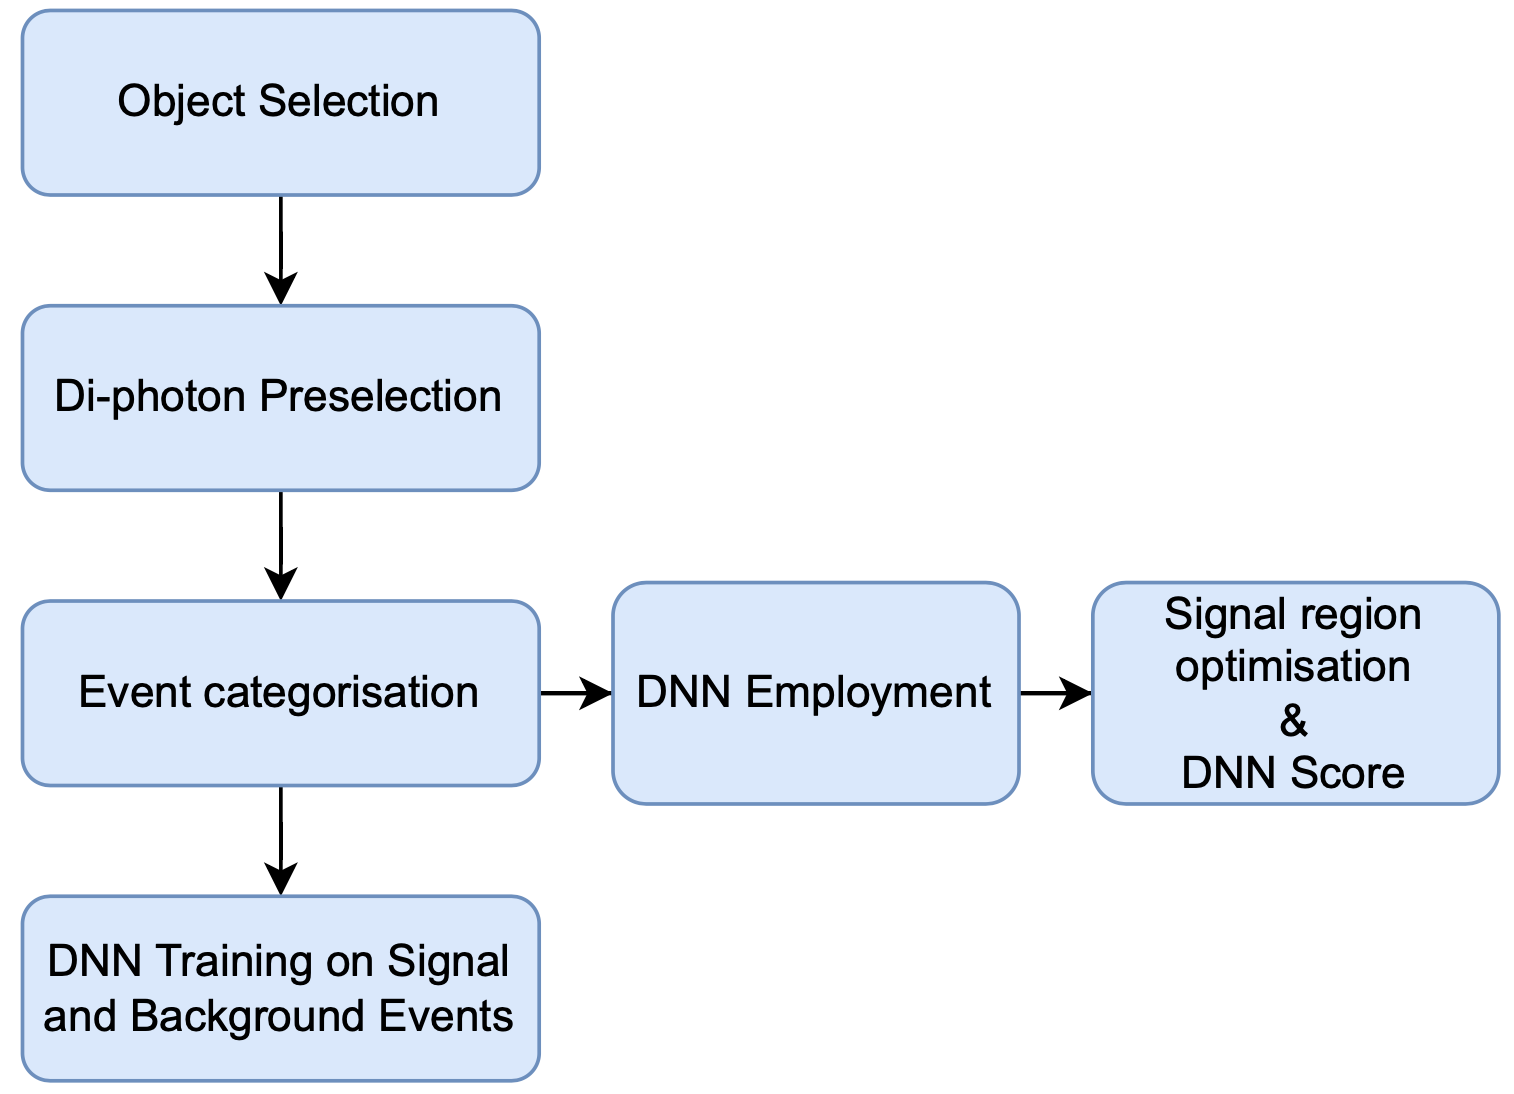
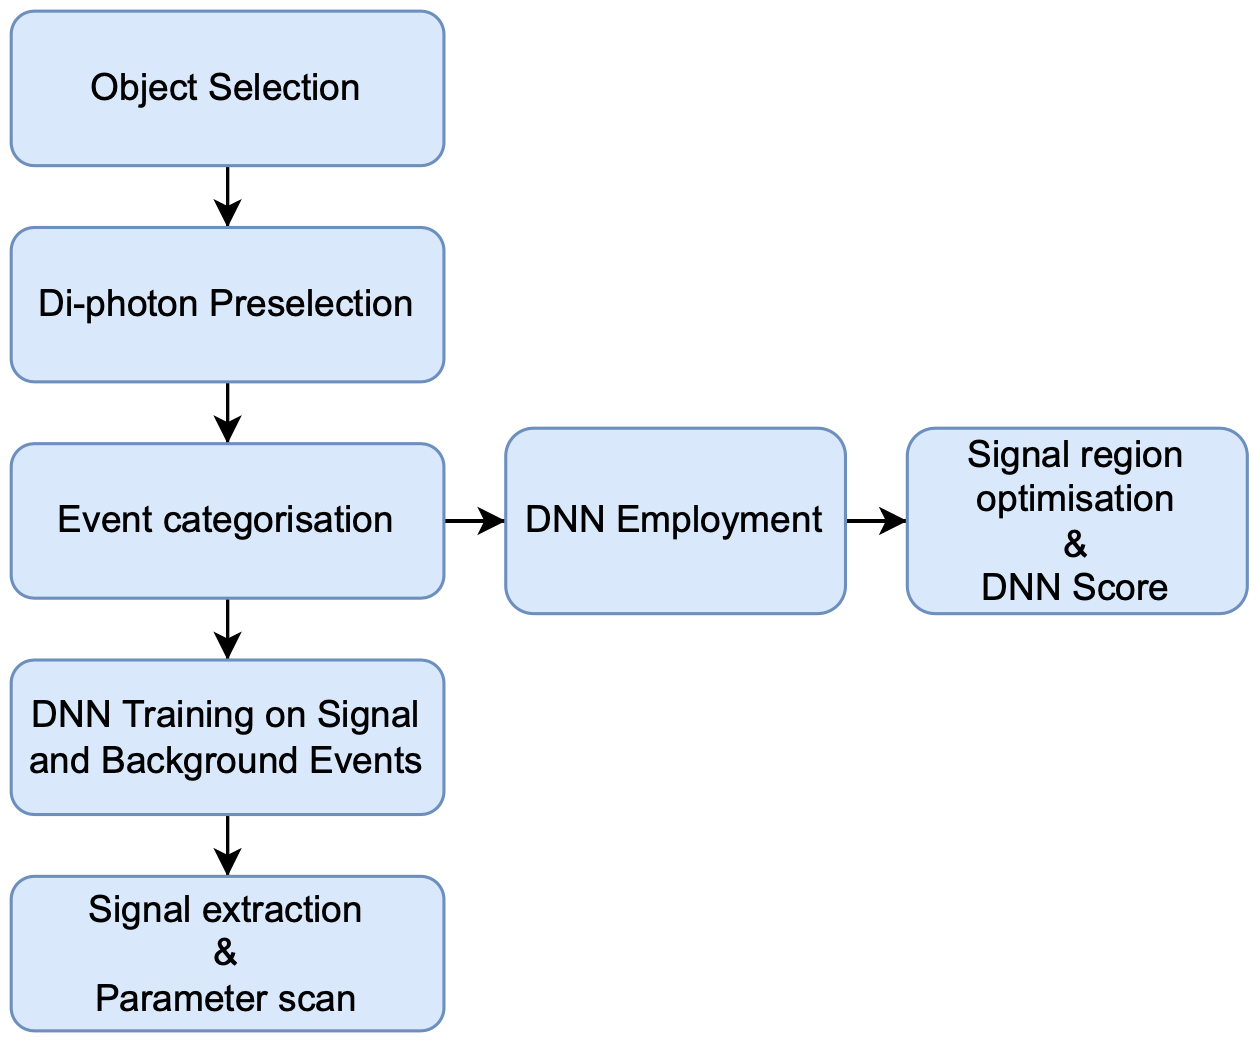
finish samples & start event selection and categorisation

diff --git a/MSc_Thesis/chapter_03.tex b/MSc_Thesis/chapter_03.tex
@@ -121,7 +121,7 @@ The analysis flow is shown in \autoref{analysisflow}.
 
 \begin{figure}[ht]
 	\centering
-	\includegraphics[scale=0.5]{analysisflow.png}
+	\includegraphics[width=\textwidth]{analysisflow.png}
 	\vspace{2mm}
 	\caption{Analysis flow chart.}
 	\label{analysisflow}
@@ -133,7 +133,62 @@ In this thesis, signal ($gg \rightarrow HH$) samples are generated using \textsc
 
 The analysis is overwhelmed by non-resonant backgrounds with continuum \mgg spectra and by single Higgs boson productions. The sample generation for single Higgs productions is performed via \textsc{MadGraph5\_aMC@NLO} \cite{Alwall2014, Artoisenet2013} with the FxFx merging scheme \cite{Frederix2012} for the gluon fusion (ggFH), vector boson fusion (VBFH), associated production with a vector boson (VH) and associated production with a top quark pair (ttH), while the top quark associated production  with a Higgs boson (tHq) was performed using \textsc{MadGraph} version-2.7 at LO.
 
-Several SM processes contribute to the continuum background. A large portion of the dominant backgrounds across all final states comes from the $\gamma\gamma+$jets processes that are modelled with \textsc{Sherpa} v.2.2.1 generator \cite{10.21468/SciPostPhys.7.3.034} while QCD-induced processes, $\gamma+$jets and WW processes are modelled with \textsc{Pythia} 8 generator. W production in association with photons and jets, and Drell-Yan processes are modelled with \textsc{MadGraph5} version-2.7 at LO, $t\bar t$ with \textsc{Powheg} v2, and $t\bar tW$, $t\bar t\gamma$, $t\bar t\gamma\gamma$, $Z\gamma$ processes with \textsc{MadGraph5\_aMC@NLO}.
+Several SM processes contribute to the continuum background. A large portion of the dominant backgrounds across all final states comes from the $\gamma\gamma+$jets processes that are modelled with \textsc{Sherpa} v.2.2.1 generator \cite{10.21468/SciPostPhys.7.3.034} while QCD-induced processes, $\gamma+$jets and WW processes are modelled with \textsc{Pythia} 8 generator. W production in association with photons and jets, and Drell-Yan processes are modelled with \textsc{MadGraph5} version-2.7 at LO, $t\bar t$ with \textsc{Powheg} v2, and $t\bar tW$, $t\bar t\gamma$, $t\bar t\gamma\gamma$, $Z\gamma$ processes with \textsc{MadGraph5\_aMC@NLO}. A complete list of samples used in the analysis is shown in \autoref{MCSamples}.
+
+\begin{table}[h!]
+    \resizebox{\textwidth}{!}{
+      \begin{tabular}{lcc}
+        \hline \hline
+        Dataset & Nevents & X-section $\times$ BR (fb)\\
+        \hline
+        \multicolumn{3}{c}{Signal} \\
+        \hline
+      $GluGluToHHTo2G2Tau\_node\_cHHH1\_TuneCP5\_14TeV$-$powheg$-$pythia8\_200PU$ & 1999866 & 0.00104441\\
+      $GluGluToHHTo2G2Qlnu\_node\_cHHH1\_TuneCP5\_14TeV$-$powheg$-$pythia8\_200PU$ & 1898894 & 0.0156981\\
+      $GluGluToHHTo2G2l2nu\_node\_cHHH1\_TuneCP5\_14TeV$-$powheg$-$pythia8\_200PU$ & 1885835 & 0.0037234\\
+      \multicolumn{3}{c}{Resonant Background} \\
+      \hline
+
+      $VHToGG\_M125\_TuneCP5\_14TeV$-$amcatnloFXFX$-$madspin$-$pythia8\_200PU$ & 1830426 & 5.44326\\
+      $ttHJetToGG\_M125\_TuneCP5\_14TeV$-$amcatnloFXFX$-$madspin$-$pythia8\_200PU$ & 5971707 & 1.393764\\
+      $GluGluHToGG\_M125\_TuneCP5\_14TeV$-$amcatnloFXFX$-$pythia8\_200PU$ & 444658 & 114.798\\
+      $VBFHToGG\_M125\_TuneCP5\_14TeV$-$amcatnlo$-$pythia8\_200PU$ & 1712900 & 9.51216\\
+      $THQ\_ctcvcp\_HToGG\_M125\_TuneCUETP8M1\_14TeV$-$madgraph$-$pythia8\_200PU$ & 789129.0 & 0.205428 \\ 
+      
+      \multicolumn{3}{c}{Continuum Background} \\
+      \hline
+      $DiPhotonJetsBox\_MGG$-$40to80\_14TeV$-$Sherpa\_200PU$ & 20677034.0 & 332804\\ 
+      $DiPhotonJetsBox\_MGG$-$80toInf\_14TeV$-$Sherpa\_200PU$ & 19933297 & 98670\\
+      $GJet\_Pt$-$20toInf\_DoubleEMEnriched\_MGG$-$40to80\_TuneCUEP8M2T4\_14TeV\_pythia8\_200PU$ & 19985496 & 3901000\\
+      $GJet\_Pt$-$40toInf\_DoubleEMEnriched\_MGG$-$80toInf\_TuneCUEP8M2T4\_14TeV\_Pythia8\_200PU$ & 20033932 & 998100\\
+      $GJet\_Pt$-$20to40\_DoubleEMEnriched\_MGG$-$80toInf\_TuneCP5\_14TeV$-$pythia8\_200PU$ & 14313734 & 260850\\
+      $QCD\_Pt$-$30toInf\_DoubleEMEnriched\_MGG$-$40to80\_TuneCUEP8M2T4\_14TeV\_Pythia8\_200PU$ & 19581853 & 295700000\\
+      $QCD\_Pt$-$40toInf\_DoubleEMEnriched\_MGG$-$80toInf\_TuneCUEP8M2T4\_14TeV\_Pythia8\_200PU$ & 7141716 & 141200000\\
+      $QCD\_Pt$-$30to40\_DoubleEMEnriched\_MGG$-$80toInf\_TuneCUEP8M2T4\_14TeV\_Pythia8\_200PU$ & 30793791 & 16510000\\
+      
+      $TT\_TuneCUETP8M2T4\_14TeV$-$powheg$-$pythia8\_200PU$ & 49398942 & 864400\\
+      $TTWJetsToLNu\_TuneCUETP8M1\_14TeV$-$amcatnloFXFX$-$madspin$-$pythia8\_200PU$ & 5040836.0 & 225.3 \\ 
+      $TTGamma\_Dilept\_TuneCUETP8M2T4\_14TeV$-$madgraph$-$pythia8\_200PU$ & 2999843 & 623.1\\
+      $TTGamma\_Hadronic\_TuneCUETP8M2T4\_14TeV$-$madgraph$-$pythia8\_200PU$ & 2999836 & 799\\
+      $TTGamma\_SingleLeptFromT\_TuneCUETP8M2T4\_14TeV$-$madgraph$-$pythia8\_200PU$ & 2939839 & 770.9\\
+      $TTGamma\_SingleLeptFromTbar\_TuneCUETP8M2T4\_14TeV$-$madgraph$-$pythia8\_200PU$ & 2939844 & 769\\
+      $TTGG\_0Jets\_TuneCUETP8M1\_14TeV\_amcatnlo\_madspin\_pythia8\_200PU$ & 1101895 & 18.64\\
+      
+      $DYJets\_incl\_MLL$-$50\_TuneCUETP8M1\_14TeV$-$madgraphMLM$-$pythia8\_200PU$ & 76952612.0 & 5711000 \\ 
+      $W1JetsToLNu\_TuneCUETP8M1\_14TeV$-$madgraphMLM$-$pythia8\_200PU$ & 77486992.0 & 10370000  \\ 
+      $W2JetsToLNu\_TuneCUETP8M1\_14TeV$-$madgraphMLM$-$pythia8\_200PU$ & 43222285.0 & 2965000  \\ 
+      $W3JetsToLNu\_TuneCUETP8M1\_14TeV$-$madgraphMLM$-$pythia8\_200PU$ & 5674591.0 & 1268000 \\ 
+      $WGToLNuG\_PtG$-$40\_TuneCUETP8M1\_14TeV$-$madgraphMLM$-$pythia8\_200PU$ & 11776400 & 18790\\
+      $ZGTo2LG\_TuneCUETP8M1\_14TeV$-$amcatnloFXFX$-$pythia8\_200PU$ & 30301987 & 145200\\
+      $WGGJets\_TuneCP5\_14TeV\_madgraphMLM\_pythia8\_200PU$ & 1981569.0 & 1884 \\ 
+      $WGJJToLNu\_EWK\_QCD\_TuneCP5\_14TeV$-$madgraph$-$pythia8\_200PU$ & 1801596.0 & 6032 \\ 
+      $WW\_TuneCUETP8M1\_14TeV$-$pythia8\_200PU$ & 99484471.0 & 70440\\ 
+      \hline
+      \end{tabular}
+       }
+        \caption{MC samples used in the analysis.}
+        \label{MCSamples}
+    \end{table}
 
 In this thesis, all signal and background samples are simulated with the Phase II upgraded CMS detector geometry using \textsc{Delphes} 3 fast simulation \cite{Selvaggi:2014mya} with an average pile-up of 200 interactions at $\sqrt{s}=14$ TeV. An Ntupliser is used to produce flat Ntuples using the outputs from \textsc{Delphes}, whose form is shown in \autoref{flattree}.
 
@@ -176,9 +231,59 @@ Electrons are required to have transverse momenta above 10 GeV within $|\eta|<3$
 
 \subsection{Event selection and categorisation}
 
-\subsection{Bamboo framework}
+All events in the analysis are required to have the invariant mass of two good photons within $100<\mgg<180$ GeV as a preselection for all final states. The analysis is performed in several non-overlaping (orthogonal) final states targeting the decays of the W bosons referred to as \emph{semi-leptonic} and \emph{fully-leptonic} final states for \wwgg, and 1$\tau$ and 2$\tau$ final states for \ttgg. Full hadronic final state of \wwgg is not included in this thesis due to modelling difficulties in QCD induced background samples.
 
-\subsection{Deep Neural Network employment}
+In the \emph{\bf{semi-leptonic final state}}, the events that contain at least one good photon pair (the preselection) and exactly one good electron or good muon are selected. This final state is expected to be the most sensitive of the two \wwgg final states due to the mix of a high energy lepton from the $W\rightarrow l\nu$ decay with the relatively large branching fraction of the $W\rightarrow qq$ leg of the decay.
+
+In order to separate the Higgs pair signal from the resonant background (Single Higgs boson production for our case) and the continuum background, two multiclass \emph{\bf{Deep Neural Networks}} (DNN) are employed. Due to the imbalance between the two classes caused by the dataset, event weights are first scaled to the expected cross sections, then reweighted so that the learning weight in the classes became similar. This assured the nueral networks to focus on categorising the two classes with equal improtance. In order to avoid training bias in the DNN, the data is divided into almost two equal parts based on the fifth decimal place of the leading good photon's $\phi$ value. The output sets are labelled as \emph{even} and \emph{odd} according to the chosen decimal, and the DNN performed with the even set is applied on the odd set.
+
+The framework choise for the DNN is the \textsc{TensorFlow} \cite{tensorflow}, which is an open source software library for machine learning that can be used in a wide variety of programming languages; Python, Javascript, C++, and Java. \textsc{Keras} \cite{keras} is the interface chosen to be used with \textsc{TensorFlow}. The reason to choose these software is that they are compatible with \textsc{Python} programming language. Additionally, both systems can run on both CPU and GPU which makes them very fast, and there is a large community working on them which makes it easy to find solutions to the problems encountered in the DNN training. Another reason to use these software is the compatibility between them and the analysis framework called \textsc{Bamboo} \cite{bamboo}. It is a high-level HEP analysis library built on top of \textsc{Root}'s \emph{RDataFrame} class. \emph{RDataFrame} offers a modern, high-level interface for analysis of data stored in TTree other data formats, in Python or C++. TTree is the data format of our samples, and since \textsc{Bamboo} is built using \textsc{Python} language, the whole analysis and DNN frameworks work in good harmony. 
+
+The feature variables used as input ot train the DNN include the kinematic variables such as \pt, $\eta$, $\phi$ and energy values of objects along with the reweighted variables. The full list of input features is given in \autoref{dnninputs}. The resulting DNN score distribution is shown in \autoref{..}.
+
+\begin{table}[h!]
+    \caption{Input features used to train semi-leptonic final state DNN.}
+    \resizebox{\textwidth}{!}{
+    \begin{tabular}{ l | l }
+    \hline
+    Feature & Description \\
+    \hline
+    Leading Photon p$_T$ / \mgg& \pt of the leading good photon scaled to diphoton mass. \\
+    Leading Photon $\eta$ & Pseudorapidity of the leading good photon \\
+    Leading Photon $\phi$ & Direction in the transverse plane of the leading good photon\\
+    Leading Photon E / \mgg& Energy of the leading good photon scaled to diphoton mass. \\
+    Sub-leading Photon p$_T$  / \mgg& \pt of the sub-leading good photon scaled to diphoton mass.\\
+    Sub-leading Photon $\eta$ & Pseudorapidity of the sub-leading good photon\\
+    Sub-leading Photon $\phi$ & Direction in the transverse plane of the sub-leading good photon\\
+    Sub-leading Photon E / \mgg & Energy of the sub-leading good photon scaled to diphoton mass. \\
+    Jet Multiplicity & Number of selected jets in the event (flavour inclusive) \\
+    Leading Jet p$_T$ & \pt of the leading good jet \\
+    Leading Jet $\eta$ & Pseudorapidity of the leading good jet \\
+    Leading Jet $\phi$ & Direction in the transverse plane of the leading good jet \\
+    Leading Jet E & Energy of the leading good jet \\
+    Leading Jet btag & b-tag discriminator of the leading good jet \\
+    Sub-leading Jet p$_T$ & \pt of the sub-leading good jet \\
+    Sub-leading Jet $\eta$ & Pseudorapidity of the sub-leading good jet \\
+    Sub-leading Jet $\phi$ & Direction in the transverse plane of the sub-leading good jet \\
+    Sub-leading Jet E & Energy of the sub-leading good jet \\
+    Sub-leading Jet btag & b-tag discriminator score of the sub-leading good jet \\
+    Electron p$_{T}$ & \pt of the selected electron \\ 
+    Electron $\eta$ & Pseudorapidity of the selected electron \\ 
+    Electron $\phi$ & Direction in the transverse plane of the selected electron \\ 
+    Electron E & Energy of the selected electron  \\ 
+    Muon p$_{T}$ & \pt of the selected muon \\ 
+    Muon $\eta$ & Pseudorapidity of the selected muon \\ 
+    Muon $\phi$ & Direction in the transverse plane of the selected muon \\ 
+    Muon E & Energy of the selected muon \\ 
+    MET & Missing transverse energy in the event \\ 
+    $m_{j_{0},j_{1}}$ & The invariant mass of the leading and sub-leading jets \\ 
+    \hline
+    \end{tabular}
+    }
+    \label{dnninputs}
+\end{table}
+
+
 
 \subsection{Systematic uncertainties}
 

diff --git a/MSc_Thesis/chapter_04.tex b/MSc_Thesis/chapter_04.tex
@@ -1,2 +1,1 @@
 \chapter{CONCLUSION}\label{ch4}
-\Gamma
